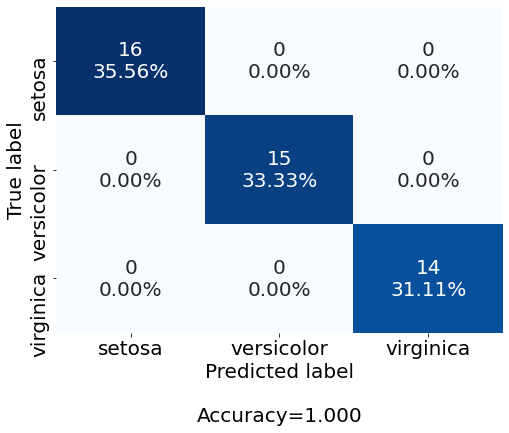
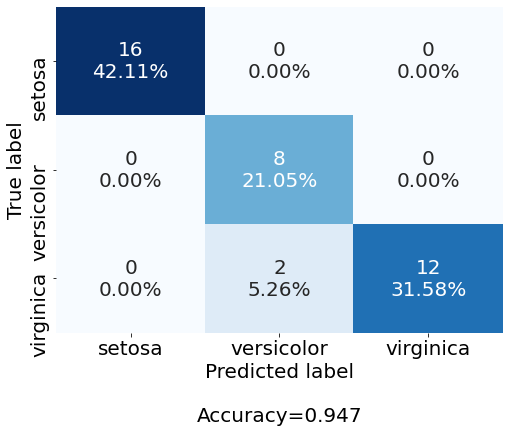
Update

Changed region(s): [[0.3831, 0.2402, 1.0, 0.7806], [0.5894, 0.9307, 0.7073, 0.9908], [0.1768, 0.1501, 0.2947, 0.1801]]

diff --git a/Naive_Bayes/NB_classifiers.py b/Naive_Bayes/NB_classifiers.py
@@ -188,7 +188,7 @@ counts = transformer.transform(counts)
 
 from sklearn.model_selection import train_test_split
 
-X_train, X_test, y_train, y_test = train_test_split(counts, df['label'], test_size=0.3, random_state=74)
+X_train, X_test, y_train, y_test = train_test_split(counts, df['label'], test_size=0.25, random_state=123)
 
 from sklearn.naive_bayes import MultinomialNB
 
@@ -197,8 +197,7 @@ model = MultinomialNB().fit(X_train, y_train)
 ########################################################################################
 # Evaluating the Model
 
-import numpy as np
-
+y_score = model.predict_proba(X_test)
 y_pred = model.predict(X_test)
 print(np.mean(y_pred == y_test))
 
@@ -211,16 +210,6 @@ from sklearn.metrics import confusion_matrix
 print(classification_report(y_test, y_pred, target_names=('ham','spam')))
 cf_matrix = confusion_matrix(y_test, y_pred)
 
-import seaborn as sns
-group_names = ['True Neg','False Pos','False Neg','True Pos']
-group_counts = ["{0:0.0f}".format(value) for value in
-                cf_matrix.flatten()]
-group_percentages = ["{0:.2%}".format(value) for value in
-                     cf_matrix.flatten()/np.sum(cf_matrix)]
-labels = [f"{v1}\n{v2}\n{v3}" for v1, v2, v3 in
-          zip(group_names,group_counts,group_percentages)]
-labels = np.asarray(labels).reshape(2,2)
-sns.heatmap(cf_matrix, annot=labels, fmt='', cmap='Blues')
 
 # https://medium.com/@dtuk81/confusion-matrix-visualization-fc31e3f30fea
 labels = ['True Neg','False Pos','False Neg','True Pos']
@@ -230,6 +219,26 @@ make_confusion_matrix(cf_matrix,
                       categories=categories,
                       figsize=(8,6),
                       cbar=False)
+
+# https://scikit-learn.org/stable/auto_examples/model_selection/plot_roc.html
+
+fpr, tpr, thresholds = metrics.roc_curve(y_test, y_score[:,1], pos_label=1)
+# auc = metrics.roc_auc_score(y_test, y_score[:,1])
+auc = np.trapz(tpr,fpr) # alternatively
+
+# https://scikit-learn.org/stable/auto_examples/model_selection/plot_roc.html
+plt.figure(figsize=(8,6))
+lw = 2
+plt.plot(fpr,tpr,color = 'darkorange', lw=lw, label="Multinomial NB (AUC = %0.2f)" % auc )
+plt.plot([0, 1], [0, 1], color='navy', lw=lw, linestyle='--')
+plt.xlim([-0.05, 1.05])
+plt.ylim([-0.05, 1.05])
+plt.legend(loc="lower right")
+plt.xlabel('False Positive Rate')
+plt.ylabel('True Positive Rate')
+plt.title('ROC Curve')
+plt.show()
+
 
 ######################################################################################################
 ######################################################################################################
@@ -249,7 +258,7 @@ y = iris.target
 
 # splitting X and y into training and testing sets
 from sklearn.model_selection import train_test_split
-X_train, X_test, y_train, y_test = train_test_split(X, y, test_size=0.3, random_state=74)
+X_train, X_test, y_train, y_test = train_test_split(X, y, test_size=0.25, random_state=123)
 
 # training the model on training set
 from sklearn.naive_bayes import GaussianNB
